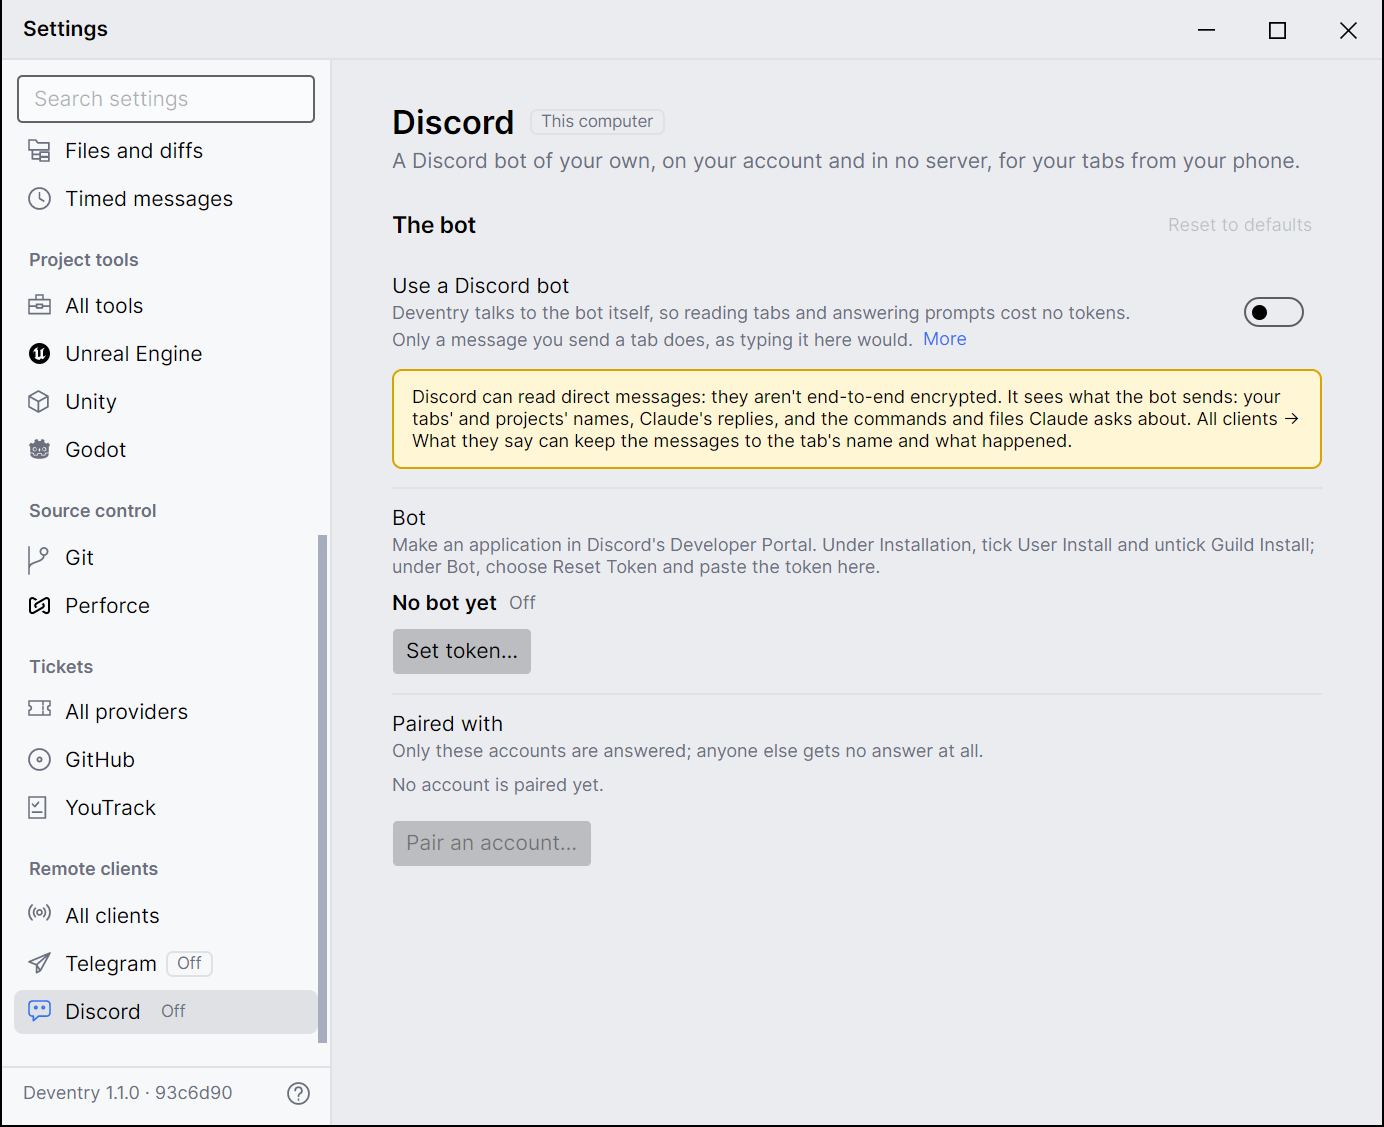
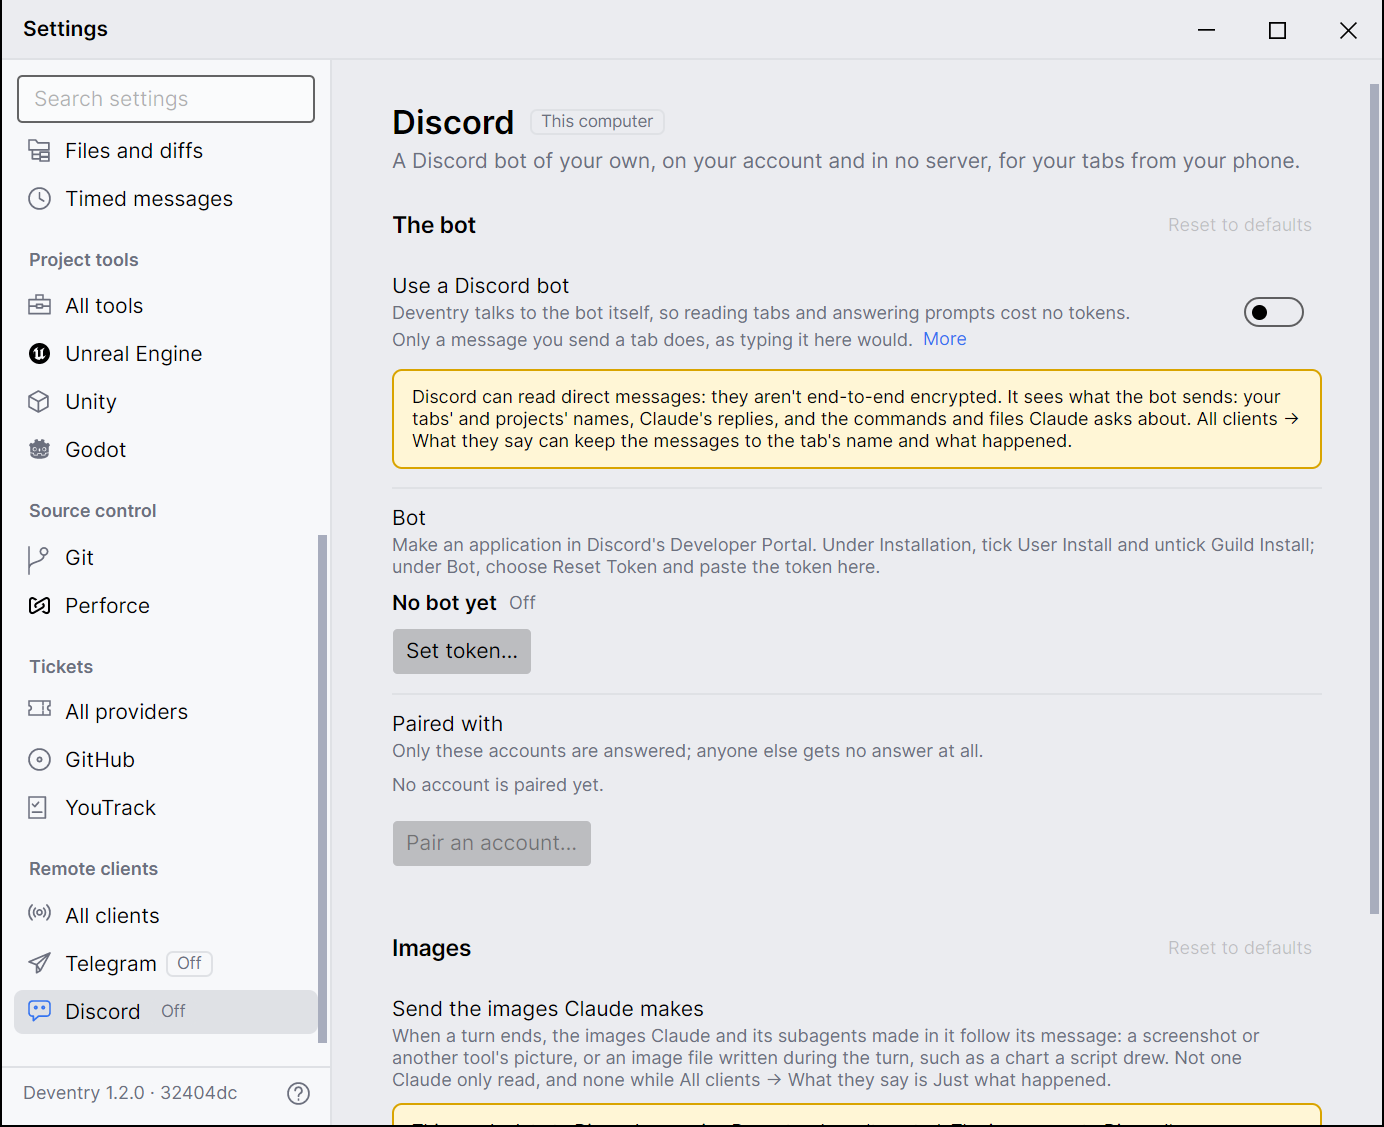
Retake the guide's pictures of Telegram's and Discord's pages, with Images under Paired with

Changed region(s): [[0.2796, 0.8385, 0.9632, 1.0], [0.9632, 0.0621, 1.0, 0.8075], [0.0932, 0.9627, 0.1864, 0.9938]]

diff --git a/docs/away/remote-clients.md b/docs/away/remote-clients.md
@@ -15,7 +15,7 @@ Each way in is a *remote client*: a Telegram bot, or a Discord bot on your own D
 
 Settings has a group for them, **Remote clients**, at the end of its sidebar: **All clients** for what they all share, then a page for each: **Telegram** and **Discord**.
 
-{% include shot.html name="guide/away/remote-clients" alt="Settings on Remote clients → Telegram, before a bot is set up: The bot, with Use a Telegram bot off and a note in yellow that Telegram can read bot chats; Bot, with No bot yet and Set token…; and Paired with, with No account is paired yet and Pair an account… disabled. The sidebar's last group, Remote clients, has All clients, then Telegram and Discord, each marked Off." %}
+{% include shot.html name="guide/away/remote-clients" alt="Settings on Remote clients → Telegram, before a bot is set up: The bot, with Use a Telegram bot off and a note in yellow that Telegram can read bot chats; Bot, with No bot yet and Set token…; Paired with, with No account is paired yet and Pair an account… disabled; and below, Images, with Send the images Claude makes and the start of its note in yellow that the images go to a service Deventry doesn't control. The sidebar's last group, Remote clients, has All clients, then Telegram and Discord, each marked Off." %}
 
 ## Not the Claude app
 
@@ -49,7 +49,7 @@ You make the bot in Discord's Developer Portal, once, as an app that goes on you
 
 Deventry keeps the token only in your computer's credential store, as it does Telegram's. Under **Bot**, Settings shows the bot's name and whether it's **Connected**. Discord itself shows the bot offline even then: it shows someone's status only to people who share a server with them, and the bot is in none.
 
-{% include shot.html name="guide/away/remote-clients-discord" alt="Settings on Remote clients → Discord, before a bot is set up: The bot, with Use a Discord bot off and a note in yellow that Discord can read direct messages; Bot, with No bot yet, how to make one in the Developer Portal, and Set token…; and Paired with, with Pair an account… disabled." %}
+{% include shot.html name="guide/away/remote-clients-discord" alt="Settings on Remote clients → Discord, before a bot is set up: The bot, with Use a Discord bot off and a note in yellow that Discord can read direct messages; Bot, with No bot yet, how to make one in the Developer Portal, and Set token…; Paired with, with Pair an account… disabled; and below, Images, with Send the images Claude makes and the start of its note in yellow." %}
 
 ### What the app needs
 
